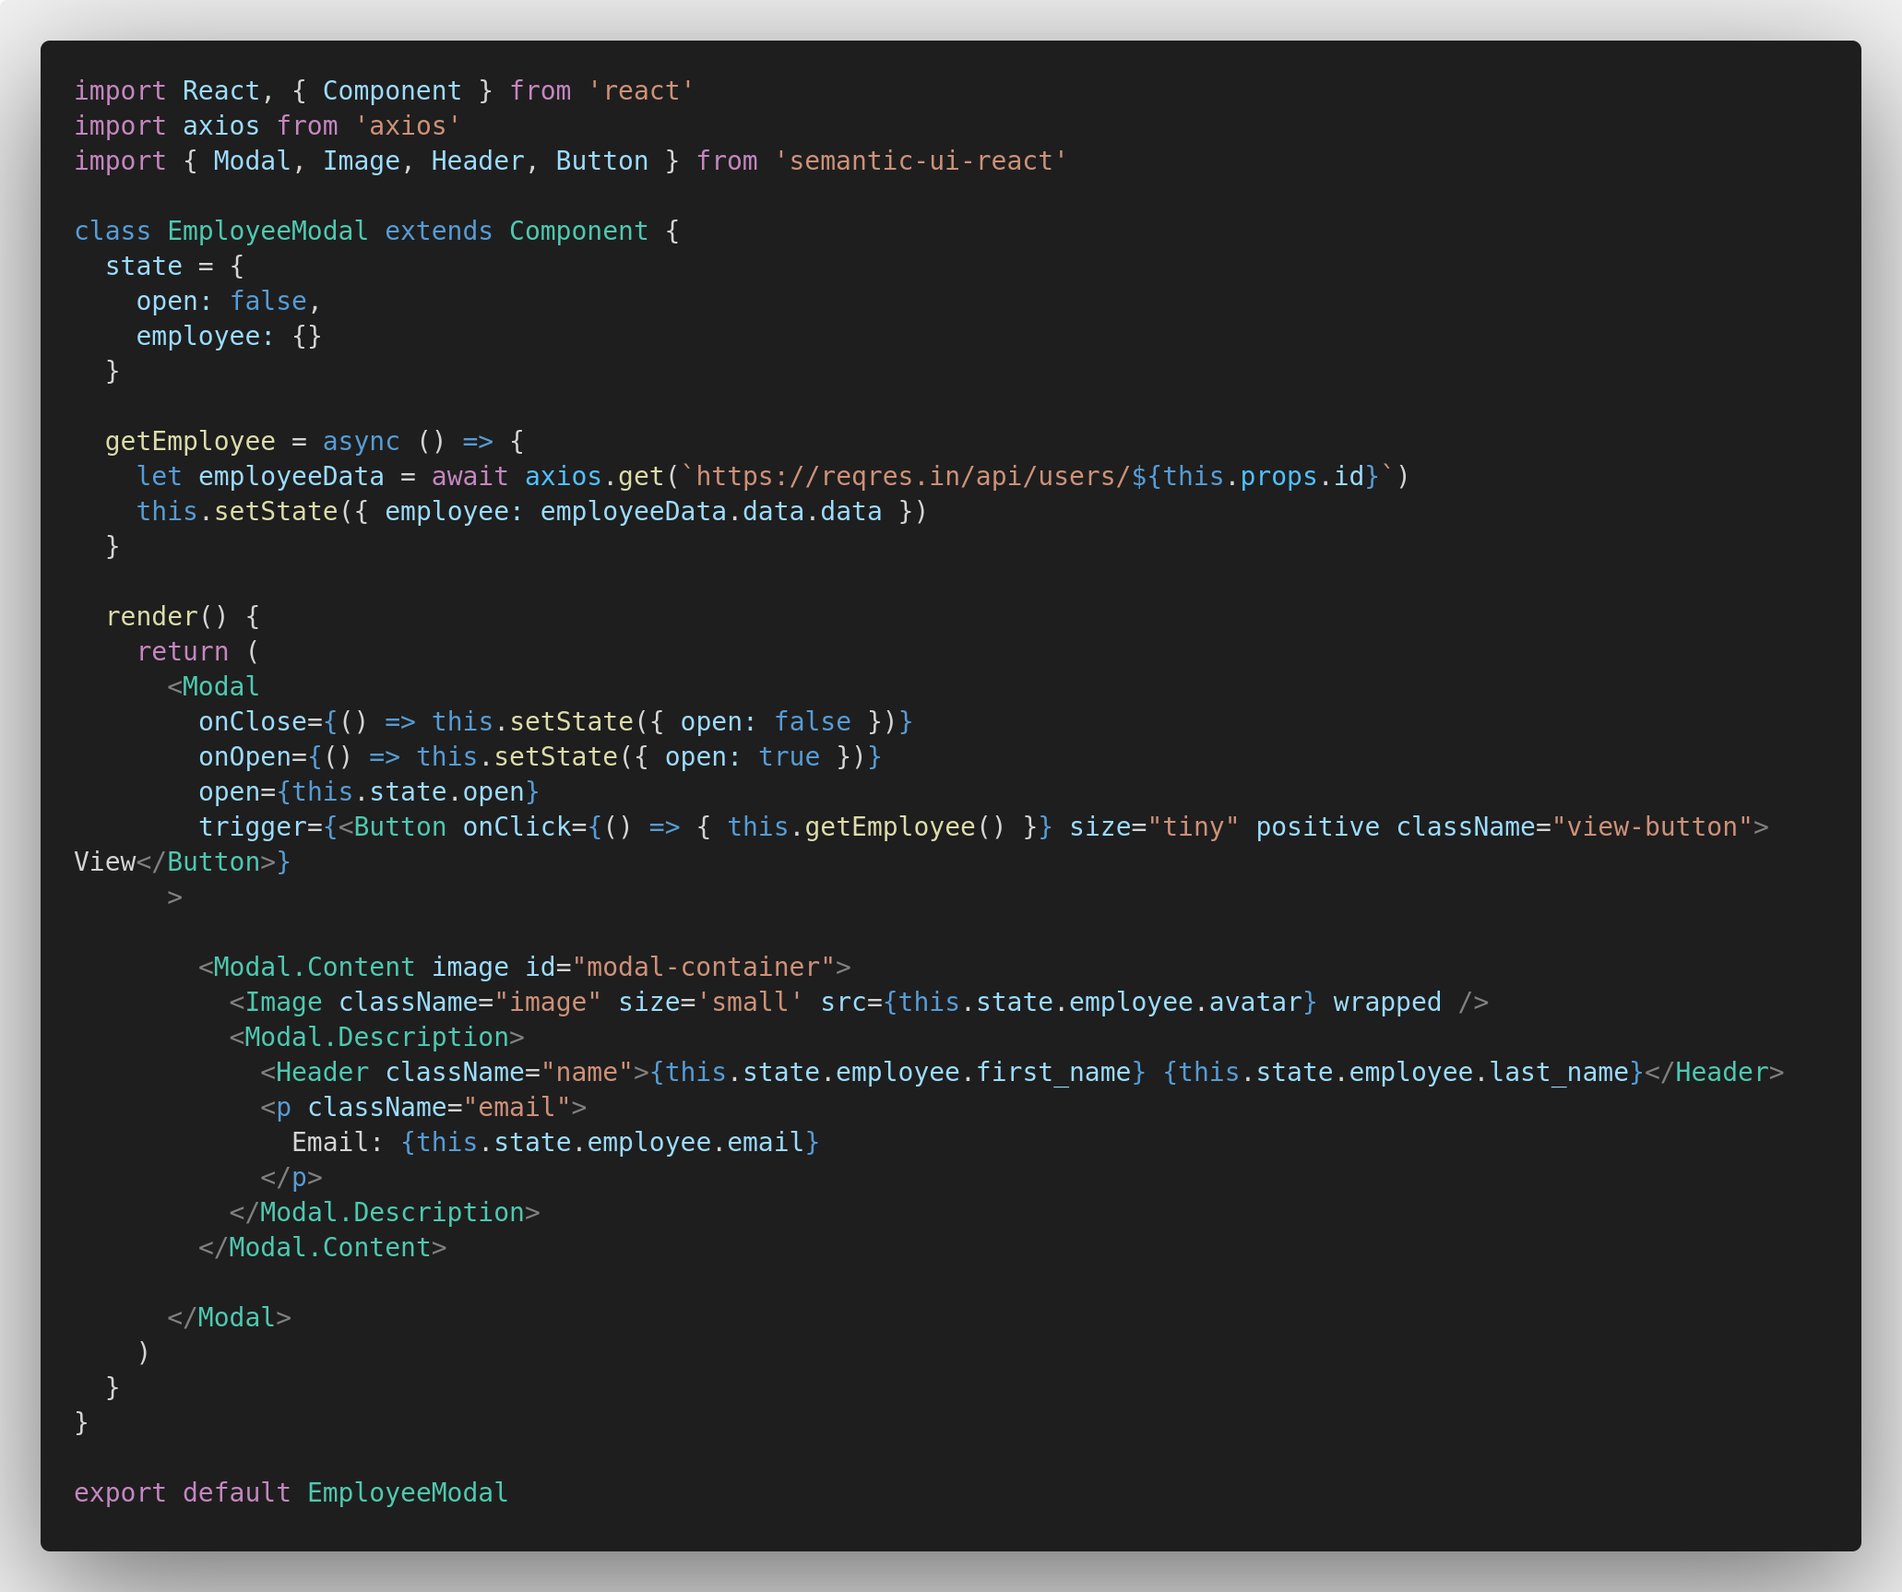
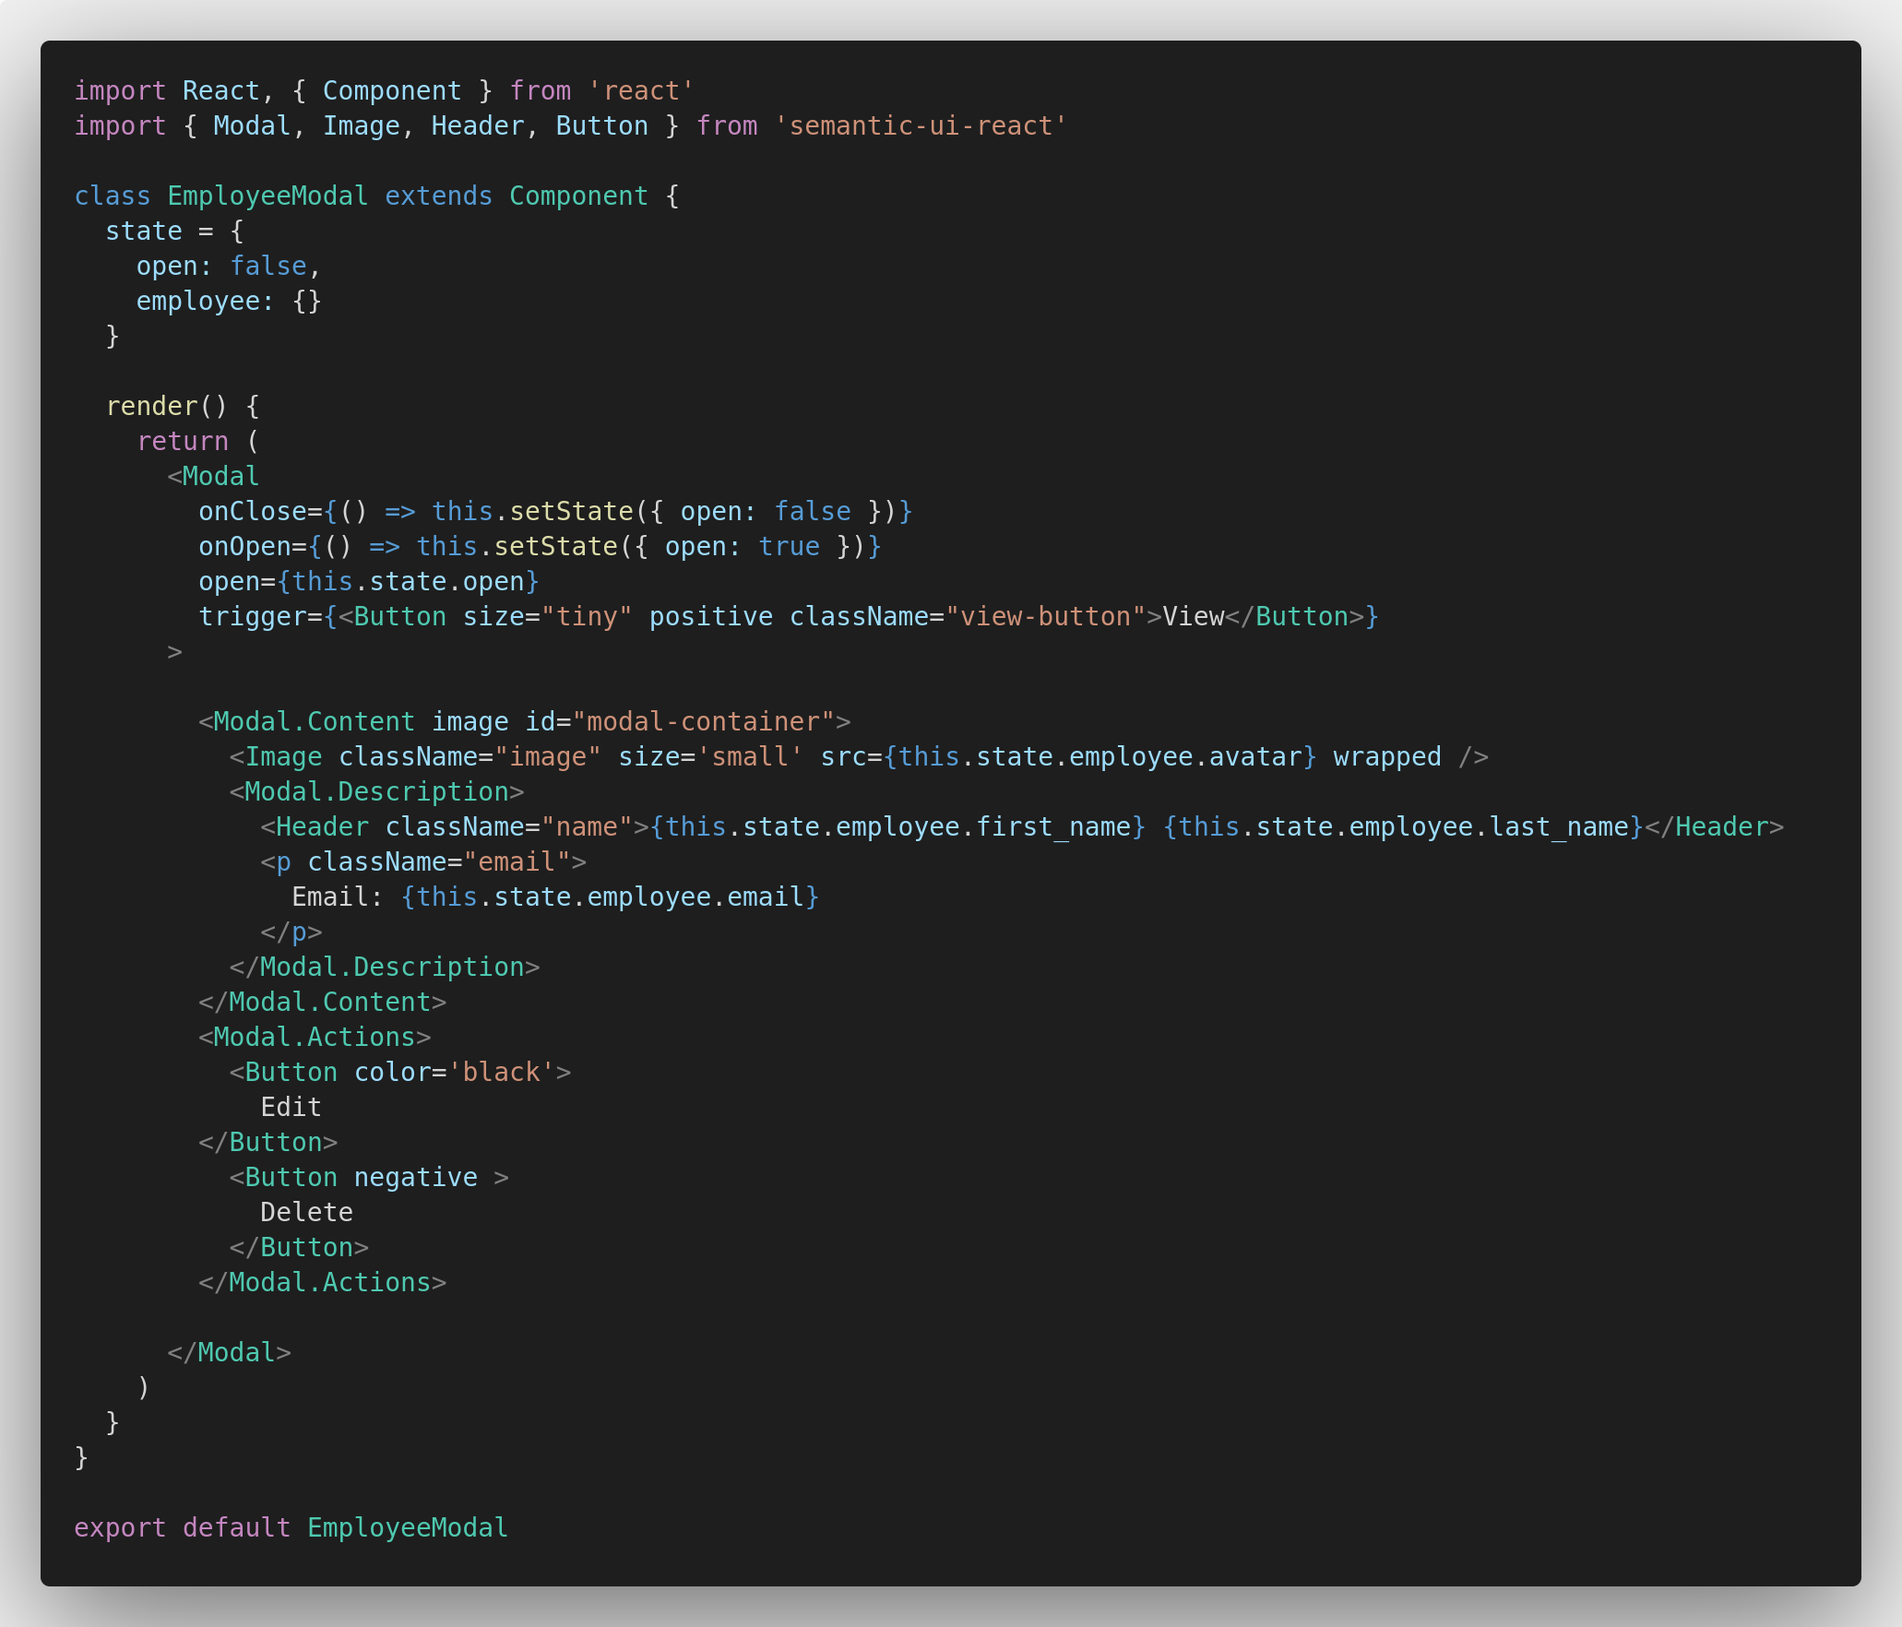
Main revision on week 3 employee list, as well as start material for the digital atm

diff --git a/week_03/material/01_employee_list/07_accessing_a_specific_employee.md b/week_03/material/01_employee_list/07_accessing_a_specific_employee.md
@@ -1,4 +1,4 @@
-In this chapter we will be adding the **View** button to the employee list that, when clicked, will open a Modal containing information about that specific employee to whom the button belongs.   
+In this section we will be adding the **View** button to the employee list that, when clicked, will open a Modal containing information about that specific employee to whom the button belongs.   
 
 We are going to look into two main things: 
 1. Creating a Modal (a sort of pop-up)
@@ -26,9 +26,9 @@ In this test we have moved additional logic inside of the ```beforeEach``` block
 Other than that, it's the same drill.
 
 ## The modal
-It's time to create our pop-up, and, as usual, we'd like to separate our functionality. Thus, let's create a new component ```EmployeeModal.jsx``` in our components folder.
+It's time to create our pop-up, and, as usual, we'd like to separate our functionality. Thus, let's create a new component, ```EmployeeModal.jsx``` in our ```components``` folder.
 
-A modal will need a state of ```open``` in order to toggle its visibility, but it will also need a state to store the employee data - so we shall create another class component. 
+A modal will need a state of ```open``` in order to toggle its visibility, but it will also need a state to store the employee data in- so we shall create another class component: 
 
 **image: accessing_a_specific_employee_02**
 
@@ -38,12 +38,12 @@ Now, the visual layer of our modal is created, but we also need to actually rend
 
 **image: accessing_a_specific_employee_03**
 
-You may have noticed that we're passing down an ```id``` prop that is equal to the individual employee's id. We will use this id to specify our next API request. 
+Notice that we are passing down an ```id``` prop that stores the value of the individual employee's id. We will use this id to specify our next API request. 
 
 So, with the first test in the green, let's get down with the second one!
 
 ## Accessing single employee data
-Having taken a look at the [reqres](https://reqres.in/) documentation, we noticed that, in order to target a specific employee, we need a *unique identifier* at the end of the request path. But other than that, it will look very similar to our previous API request:
+Having taken a closer look at the [reqres](https://reqres.in/) documentation, we noticed that, in order to target a specific employee, we need a *unique identifier* at the end of the request path. But other than that, it will look very similar to our previous API request:
 
 **image: accessing_a_specific_employee_04**
 
@@ -67,23 +67,7 @@ The answer is yes - good thinking by the way - but then we wouldn't have been ab
 
 Now, off you go to to play! Here's a couple bonus challenges for you, if you feel confident: 
 
-1. Right now, the main API response features employee 1-6. Rewrite the call so you will instead receive employee 7-12.
+1. Right now, the main API response comprises employee 1-6. Rewrite the call so you will instead receive employee 7-12.
 2. The reqres API is responding with 6 employees by default. Rewrite the call to receive a different amount - let's say 4?
-3. Add ```update``` functionality to the Modal's ```edit``` button.
-4. Add ```delete``` functionality to the Modal's ```delete``` button
 
-As a head start for 3. and 4., you can add the following lines right below the ```Modal.Content``` closing tag, and you should see two buttons in your Modal:
-```
-<Modal.Actions>
-  <Button color='black'>
-      Edit
-  </Button>
-  <Button negative >
-      Delete
-  </Button>
-</Modal.Actions>
-```
-Other than that, try to follow the same ideation as throughout the challenge: 
-1. Functionality that sends a request
-2. Use the response to render something to the DOM 
-3. A trigger that will invoke this functionality
+I can hint that it has something to do with ```query params```!

diff --git a/week_03/material/01_employee_list/01_consuming_an_api.md b/week_03/material/01_employee_list/01_consuming_an_api.md
@@ -1,0 +1,46 @@
+# About API's in the context of the Web
+API is technically short for "Application Programming Interface" and the term is tossed around in the programming industry so much, that the overall complexity of what they are, and how they can make your life easier - or a living hell - gets overlooked.
+
+Some definitions:
+
+"a set of programming instructions and standards for accessing a web-based software application or web tool"
+
+"a set of functions and procedures allowing the creation of applications that access the features or data of an operating system, application, or other service."
+
+"...to provide a way to connect computer software components together"
+
+Some time ago, it became a big thing for web startup to offer public access to some of their internal data through a web service API, typically using REST and JSON, thus allowing third-party developers to integrate with their systems. Web developers started using the term "API" to mean specifically (and only) "publicly accessible web service", and misusing it to include the implementation thereof. Okay, we will be working on this a lot moving forward, so today is NOT the day for a deep dive into this concept and becoming experts. Today is the day when we will make use of an API for the first time, and later, we will dissect what occurred and go over some of the moving parts.
+
+In typical web application architecture, we have frontend/client side(detached from the backend) and server side/backend. Normally, the backend and frontend run on different servers with different domain names and may even be in different locations too.  
+They should be able to communicate with each other to share information. Frontend is responsible for capturing the users inputs,validating it, and sending it to the server, but also for fetching and displaying the data on browser.  
+The backend is responsible for storing and retrieving data from the database, as well as formatting the responses appropriately. 
+
+In this exercise, we will make use of an API that is public and allow us to fetch some data (we often use the expression "provides API endpoints" - I will explain this expression further down the line.)
+
+Let's execute this in our browser's console (in your developer tools, when you inspect a webpage):
+
+```
+const xhr = new XMLHttpRequest();
+xhr.open('GET', 'https://reqres.in/api/users')
+xhr.onload = () => {
+  const data = JSON.parse(xhr.responseText)
+  console.table(data.data)
+}
+xhr.send()
+```
+
+You can also try this in the Node console in your terminal, but XMLHttpRequest is a built-in object in web browsers only. It is not distributed with Node; you have to install it separately,
+
+Install it with npm:
+
+```$ npm install xmlhttprequest```  
+
+Now you can open ```$ node``` and require it in to carry out the same procedure:
+
+```
+const XMLHttpRequest = require("xmlhttprequest").XMLHttpRequest;
+const xhr = new XMLHttpRequest();
+// ...and the rest of the snippet
+```
+
+You can play around with these commands in your browser and the terminal for a bit.

diff --git a/week_03/material/01_employee_list/05_sending_a_request.md b/week_03/material/01_employee_list/05_sending_a_request.md
@@ -8,14 +8,15 @@ R - Read: (get requests)
 U - Update: (put/patch requests)
 D - Delete: (delete requests)
 ```
-In our case, we want to retrieve some data, which in turn will be rendered in our app. So what kind of request are we talking..?
+In our case, we want to retrieve some data, which in turn will be rendered in our app. So what kind of request are we talking here..?
 
 **A ```get``` request! Bingo!**
 
 To help us in this endeavour, we are going to use a tool called **Axios**. Axios is a library for making asynchronous network requests. It is designed to handle http requests and responses and has become an industry standard.  
 We will use the [reqres](https://reqres.in/) API in this scenario, which is a simple API for front-end testing that provides fake 'life-like' data.
 
-We will start by adding this tool to our dependencies and then importing it in our ```EmployeeList``` component!   
+We will start by adding this tool to our dependencies and then importing it in our ```EmployeeList``` component!  
+
 ```$ yarn add axios```  
 
 ```import axios from 'axios'```
@@ -29,16 +30,16 @@ Since Axios isn't evaluating instantly (as it takes just a fraction of a second 
 
 To accomplish this, we use the ```async...await``` functionality, making the function ```asynchronous``` and allowing us to ```await``` the axios call.
 
-Inside the function, we store the data retrieved from the ```axios.get()``` API call to **reqres** into the variable ```employees```.  
+Inside the function, we store the data retrieved from the ```axios.get()``` API call to **reqres** into the variable ```employeeData```.  
 
-We then dig into this variable (which evidently has turned out to contain an object, ```data```, that contains another object, ```data```, that then holds an array of employee objects) - and store this array in our ```employees``` state.
+We then dig into this variable (that evidently has turned out to contain an object, ```data```, that contains another object, ```data```, that then holds an array of employee objects) - and store that array in our ```employees``` state.
 
 Perfect, now we have the functionality, however our test is back in the red. How come?  
 
 *(Also, don't forget your commits!)*
 
 ### componentDidMount()
-While the functionality is in place, there is nothing *triggering* our ```getEmployees``` function. 
+While the functionality is in place, there is nothing *triggering* our ```getEmployees``` function, meaning that the API request is never sent.
 
 This is a great opportunity to get to know the life cycle of components a bit better. Since we want to display the list of employees immediately as the user visits the site, we want to call our function as soon as the component **mounts** (a.k.a as soon as it renders on the screen).
 

diff --git a/week_03/material/01_employee_list/04_building_a_list.md b/week_03/material/01_employee_list/04_building_a_list.md
@@ -68,7 +68,7 @@ Let's start with a new ```it``` block:
 
 So, what this test implies is that we expect a sort of container element with an ```id``` of ```employee-list```. We then look ```within``` this and look for elements with a ```class``` attribute of ```employee-item```. 
 
-Knowing that we want the list to contain 6 items of employee details, we expect the ```cy.get('.employee-item')``` to return an array of these 6 elements.  
+Knowing that we want the list to contain 6 items of employee details, we expect the ```cy.find('.employee-item')``` to return an array of these 6 elements.  
 This allows us to use the ```have.length``` matcher to count the elements in the array and expect it to equal 6. 
 
 We would also like to test that the list items do in fact contain the correct information. Let's do a sample test:
@@ -118,8 +118,8 @@ Instead we will use a simple, but powerful piece of functionality from JavaScrip
 
 You may remember this from your portfolio challenge, but if you still don't feel comfortable with it, I encourage you to go and read up on it, as it will be used extensively in your coding future. Check the [MDN Web Docs](https://developer.mozilla.org/en-US/docs/Web/JavaScript/Reference/Global_Objects/Array/map) for example.
 
-We will use the method to loop through our array of employee details and create a list element with the details for each iterated employee.   
-This way, it doesn't matter whether the employee detail array has 5 elements or 500, making our code dynamic!
+We will use the method to loop through our array of employee details and create a list element containing the details for each iterated employee.   
+This way, it doesn't matter whether the employee details array has 5 elements or 500, making our code dynamic!
 
 All these ```<li>``` elements are then stored in a variable, ```employeeList```, which we can then render inside of a ```<ul></ul>``` container, like:
 

diff --git a/week_03/material/01_employee_list/02_the_challenge.md b/week_03/material/01_employee_list/02_the_challenge.md
@@ -1,5 +1,5 @@
 ## The problem statement
-An agency has been seeing good growth and would like to expand their business and bump up their employee numbers. They have asked us to help them create a simple employee management system. They would like to have all employees displayed in a list with the possibility to view additional information about each individual. 
+An agency has been seeing good growth lately and would like to expand their business and bump up their employee numbers. They have asked us to help them create a simple employee management system. They would like to have all employees displayed in a list with the possibility to view additional information about each individual. 
 
 We have drawn up the following lo-fi to guide us:  
 
@@ -12,7 +12,7 @@ Further down the line, the agency would also like to be able to **update** the d
 
 ## Learning objectives
 During this exercise you will get acquainted with the HTTP verbs. You will create and modify your own request-response scenarios, where you will send requests to an external API and in turn use the API's response to display dynamic data in your app.  
-As always, we will solve our tasks in a test-driven manner with a good Git flow. :metal:
+As always, we will solve our tasks in a test-driven manner with a good Git flow. 🤘
   
 - Visualizing dynamic data with React
 - Basic knowledge of RESTful APIs

diff --git a/week_03/material/01_employee_list/06_adding_style.md b/week_03/material/01_employee_list/06_adding_style.md
@@ -1,5 +1,5 @@
 ## Using a style library
-These days it's crucial not to neglect the UI, but, while it can be good fun to build your own designs from scratch, this also proves to be extremely time consuming.  
+These days it's crucial not to neglect the UI, however, while it can be good fun to build your own designs from scratch, this also proves to be extremely time consuming.  
 
 Since time is the one thing we don't have in this boot camp, we choose to use pre-designed components. 
 Throughout the boot camp, we will be using [Semantic UI,](https://react.semantic-ui.com/) but there's plenty of other cool libraries and frameworks out there. 
@@ -33,7 +33,7 @@ You may have noticed that we have given the ```Header``` a ```size="huge"``` pro
 From hereon out it's all about experimenting. Design and CSS can be a tricky size in the beginning, but it all comes down to repetition and experimentation.
 
 ## The Item component
-If you are feeling low on inspiration, we have added a solution below, using Semantic's [Item](https://react.semantic-ui.com/views/item/) component:
+If you need a little inspiration, we have added a solution below, using Semantic's [Item](https://react.semantic-ui.com/views/item/) component:
 
 **image: adding_style_02**
 

diff --git a/week_03/material/01_employee_list/03_setting_up.md b/week_03/material/01_employee_list/03_setting_up.md
@@ -1,7 +1,7 @@
 ## Configurations
 Before any coding can be done, we need to setup our environment.
 
-The agency has requested the app to be written with ReactJS, which is quite fortunate, since that's exactly you excell at.  
+The agency has requested the app to be written with ReactJS, which is quite fortunate, since that's exactly what you excel at.  
 Let's start scaffolding the application with React's own app generator ```create-react-app```. This tool saves us from a lot of time-consuming configuration, and comes with pre-configured dependencies such as Webpack and Babel. Instead, we can go straight at it and focus on our job - building functionality.
 
 ```$ yarn create react-app employee_management```
